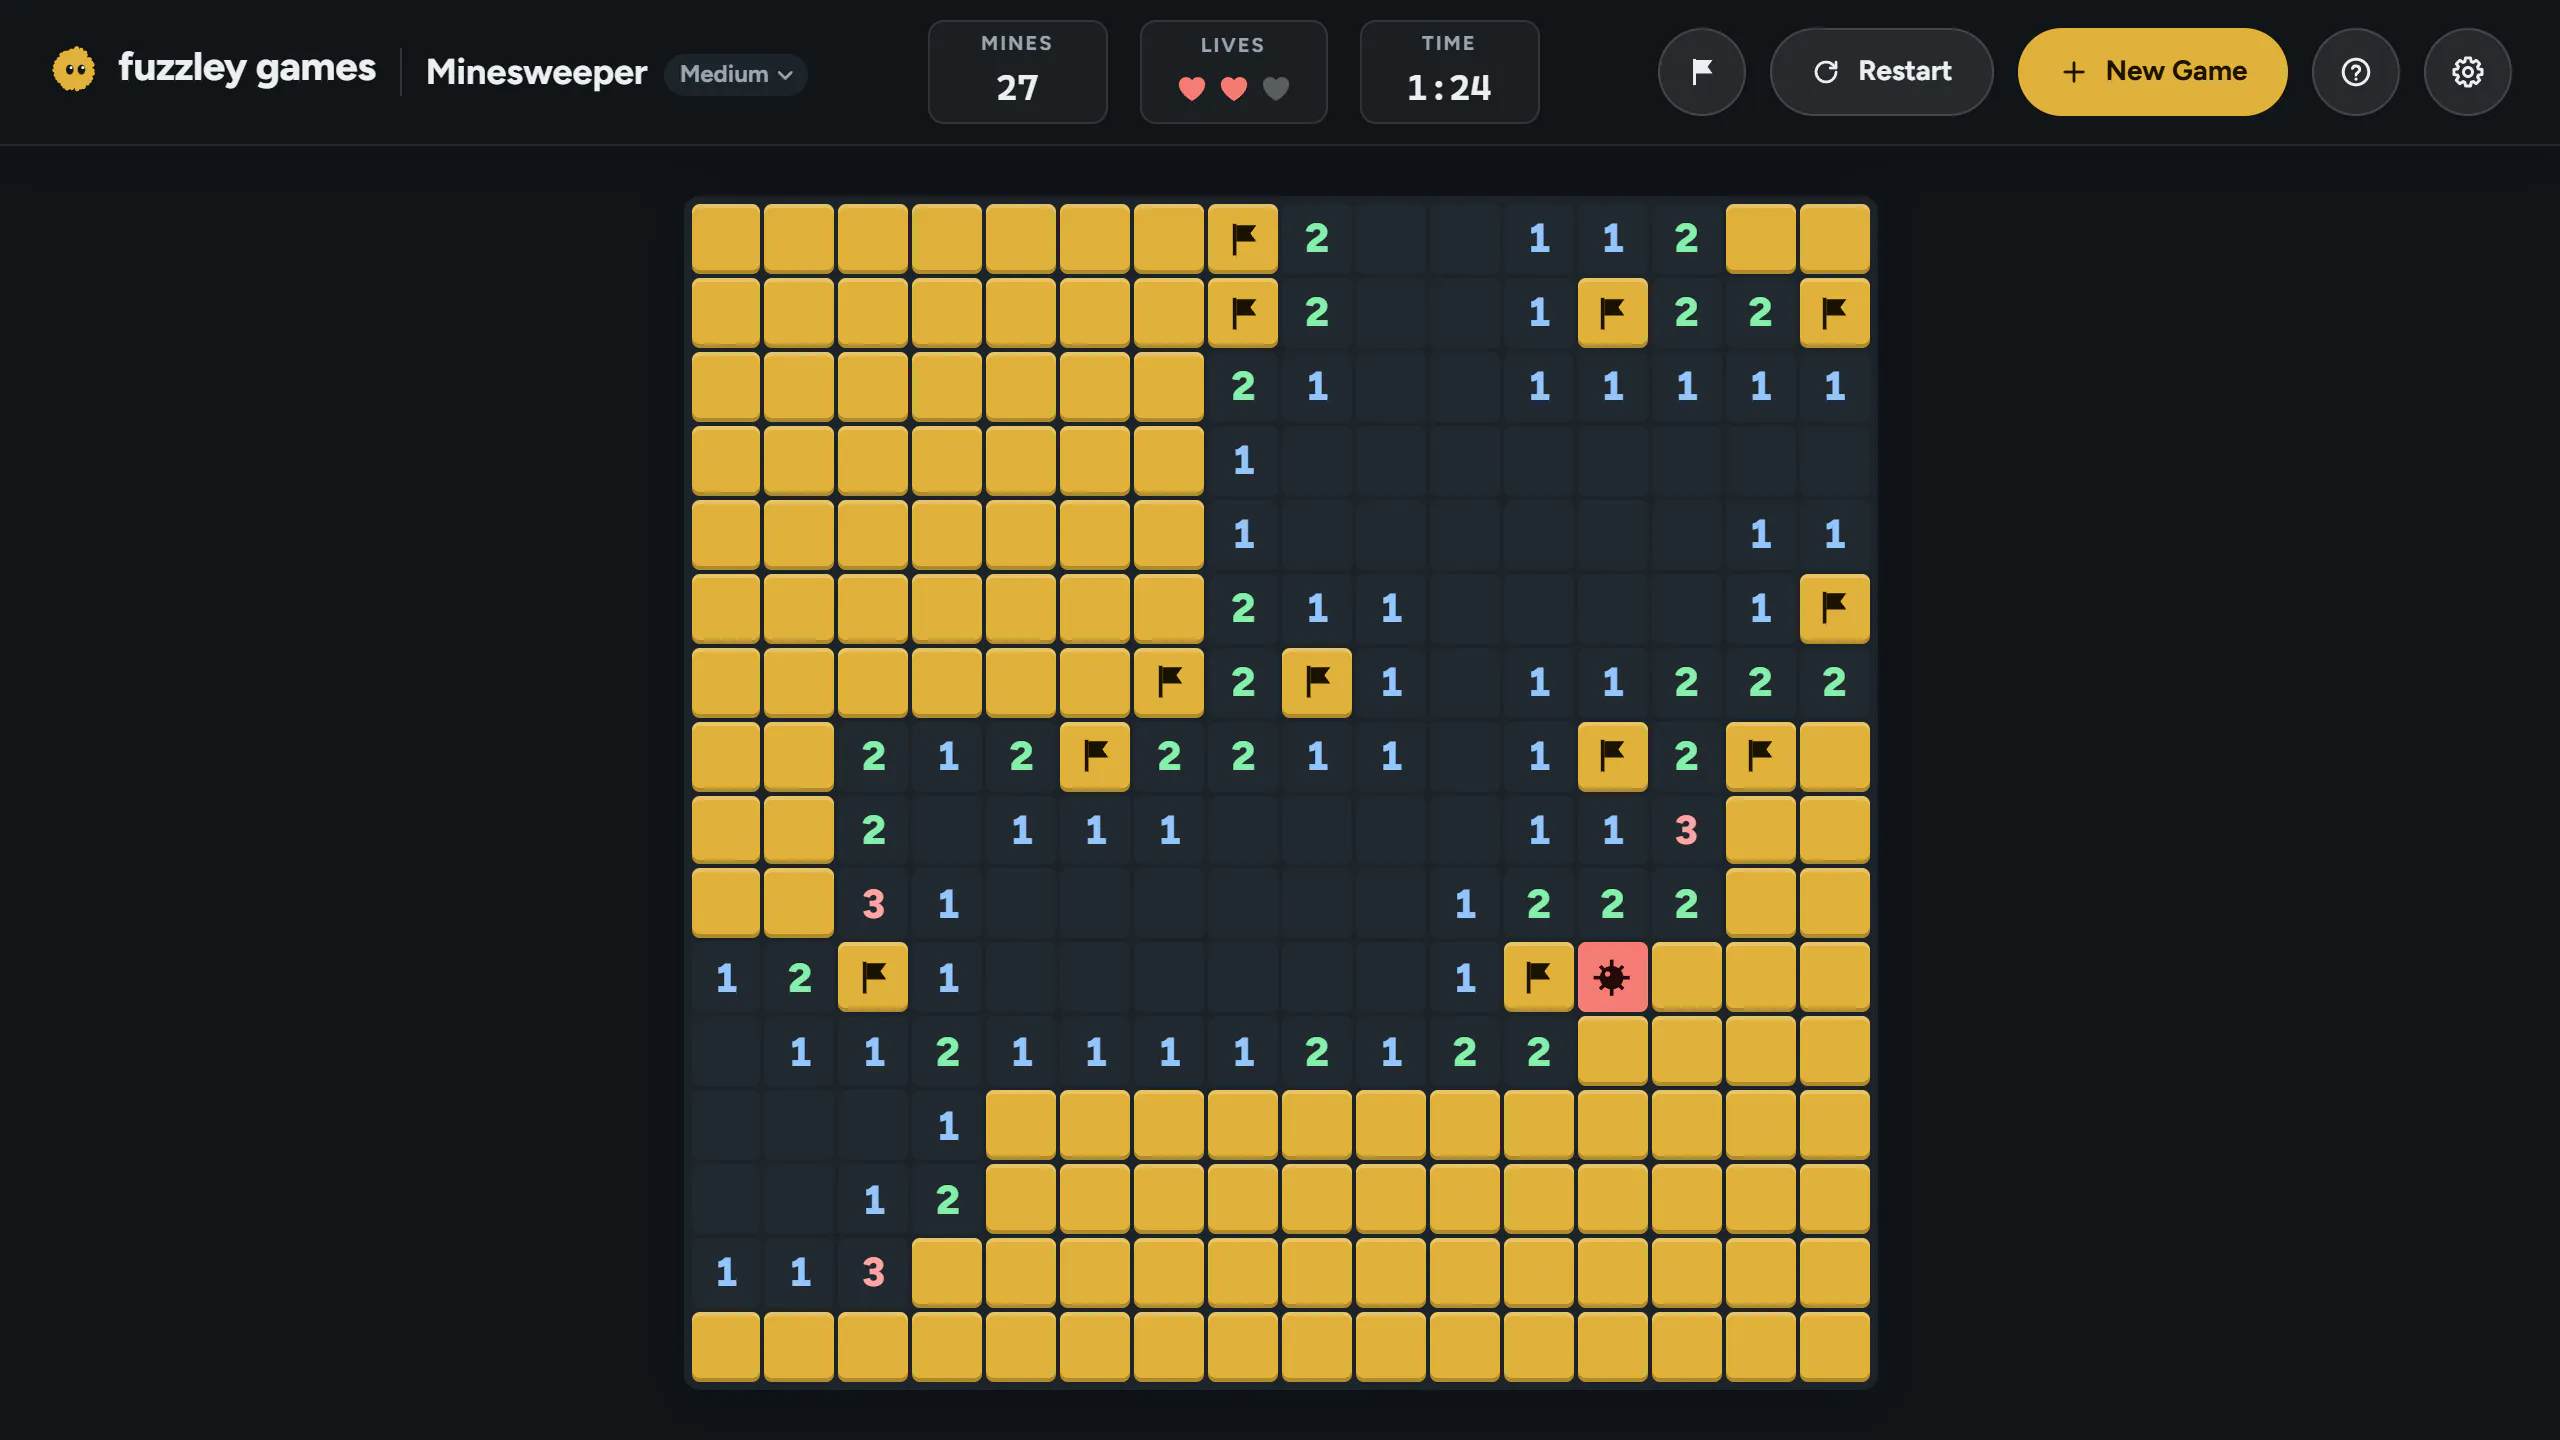
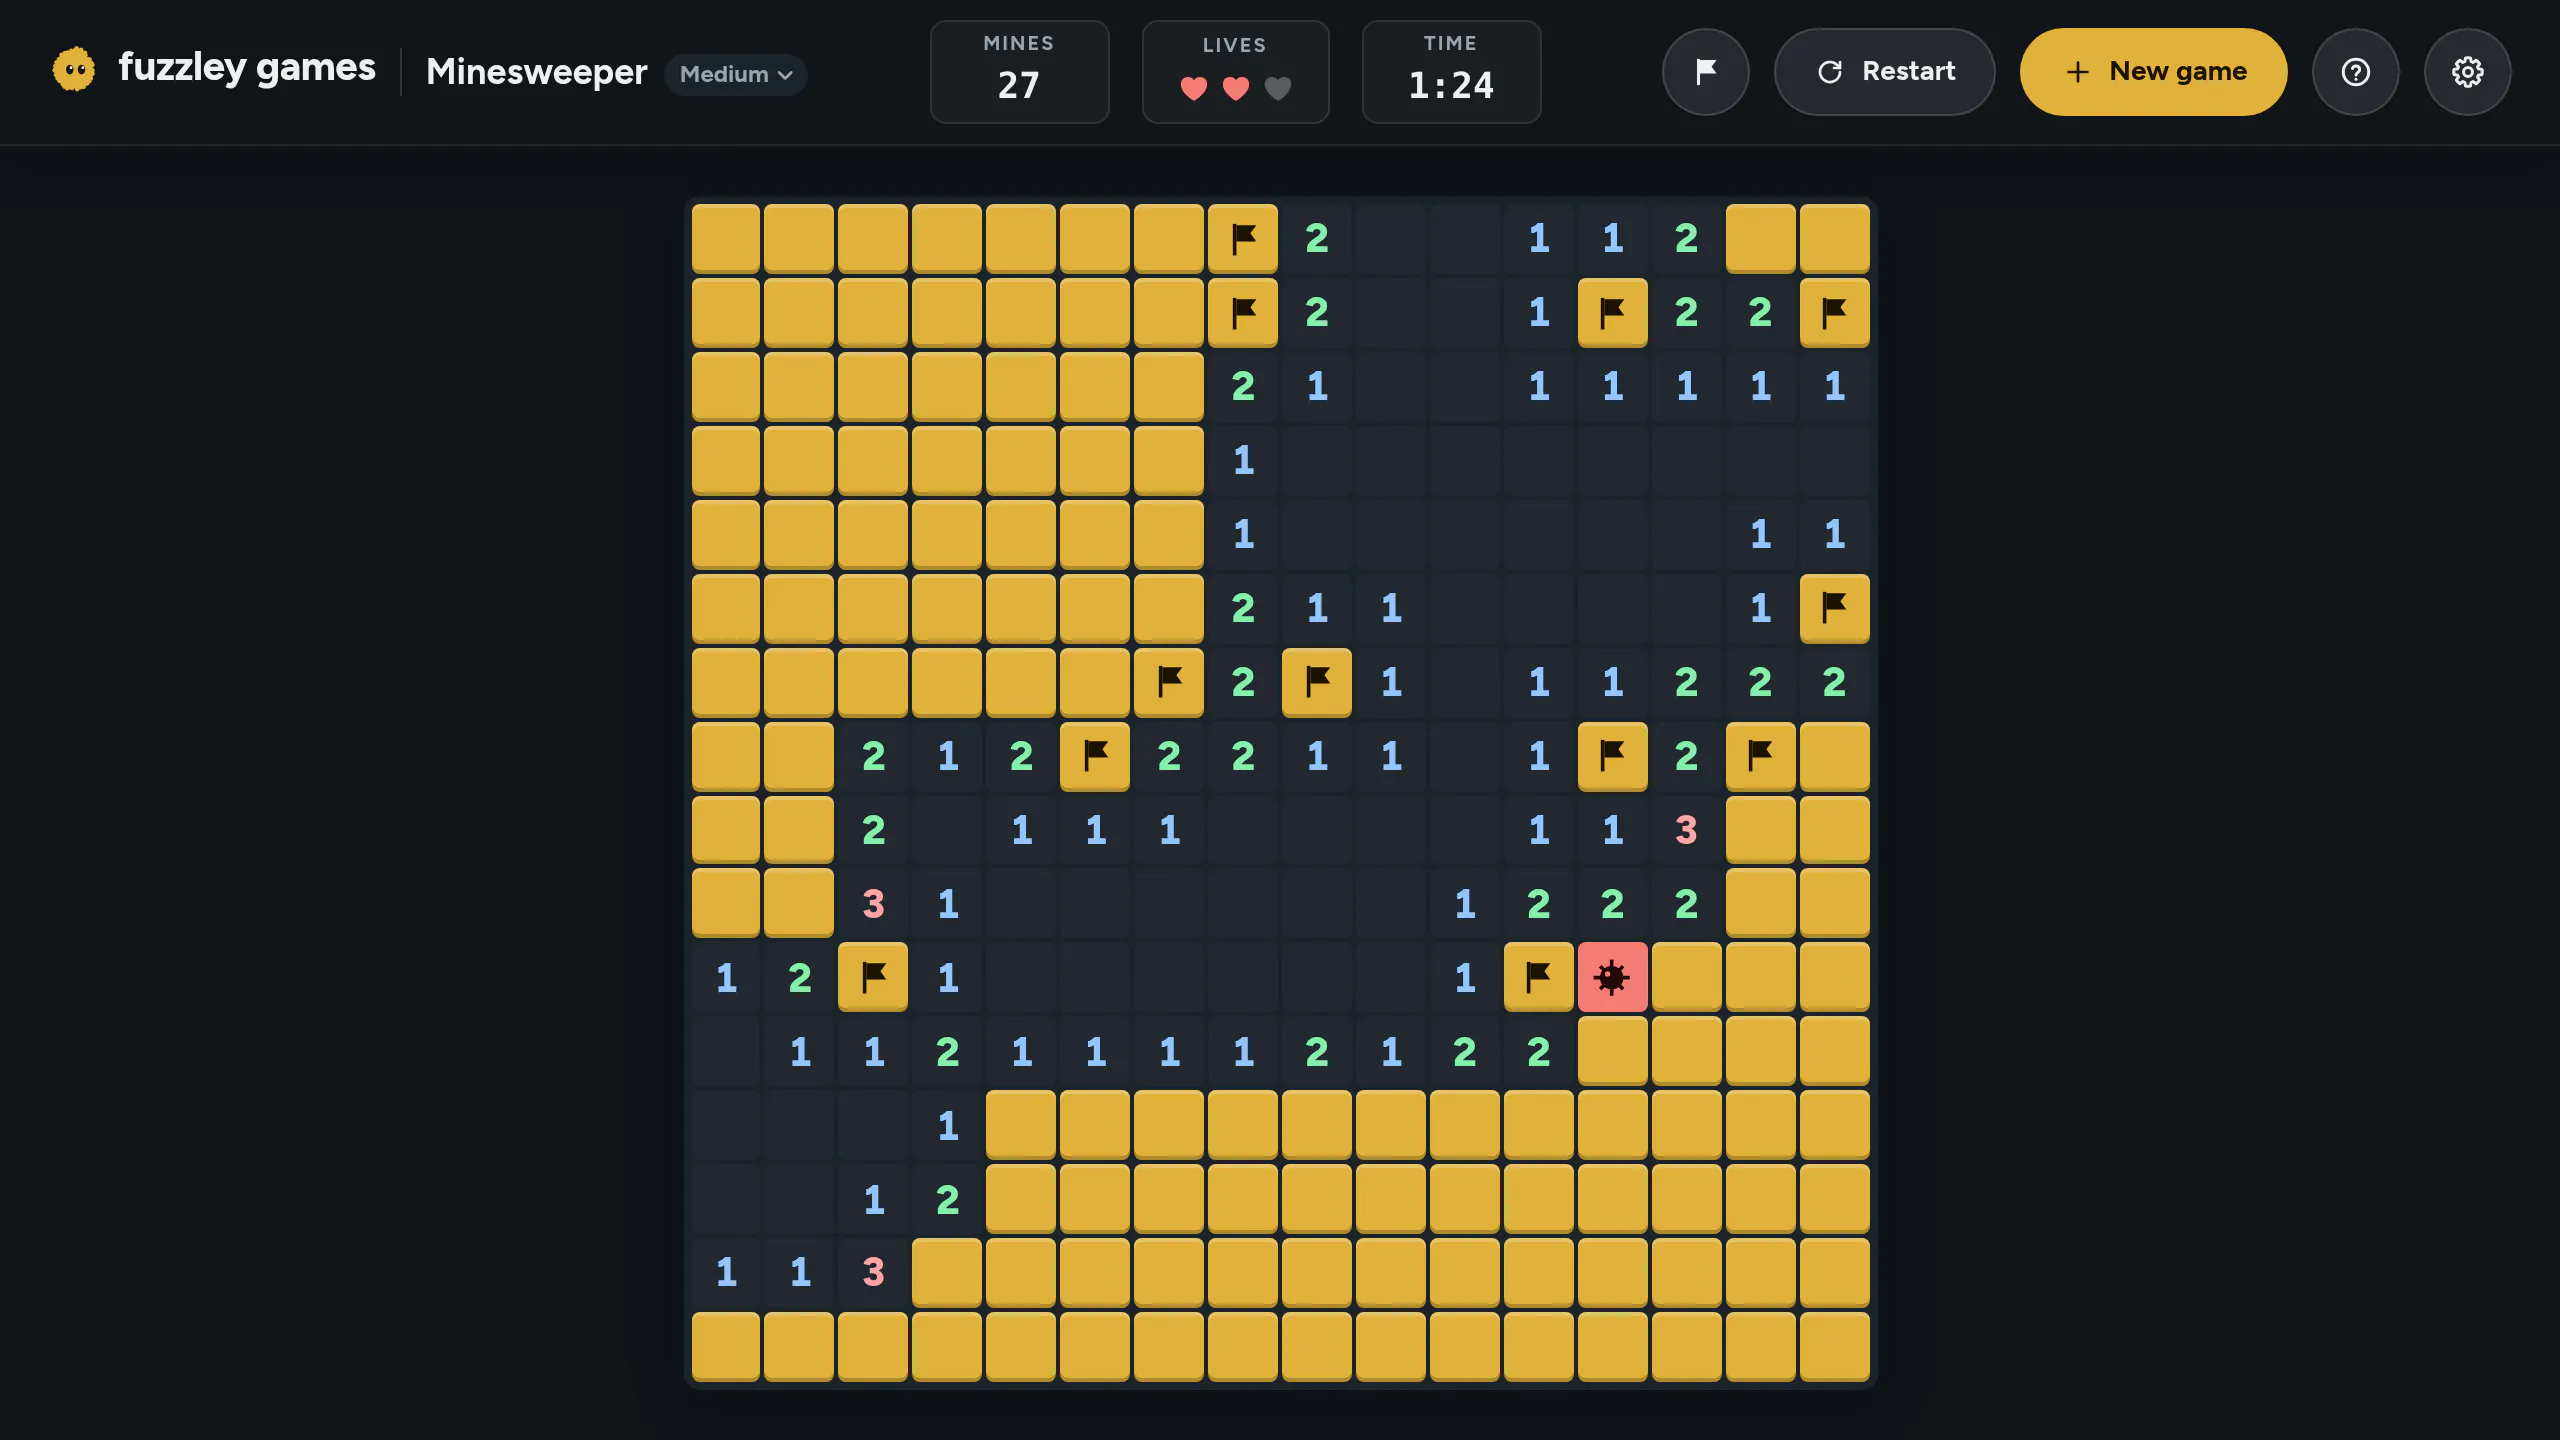
docs(minesweeper, sudoku, snake, brick-breaker): the site's screenshots of four games taken again, as @fz/dev/screenshots now takes them
Step 5.8 moved the games' capture scripts onto @fz/dev/screenshots, so each
was run again against yarn dev:all on the integration branch to see it shoot
the same. Minesweeper's, Sudoku's, Snake's and Brick Breaker's boards come
out in the same place, size, crop and palette as before. What differs is
what the games changed before this work began and after the old images were
taken: New game in sentence case, and Brick Breaker's lives and ball as
fuzzballs. Snake's link preview now calls its snake gold, as the casino
palette has drawn it since its screenshots moved to it.

Asteroid Breaker's and the Solitaire Collection's are kept as they were.
Asteroid Breaker's capture lands while its guarded ship blinks, so the ship
shows in some takes and not others, at the commit before this work as on
this branch. The Solitaire Collection's script takes the browser's colour
scheme, which is light here where its images are dark.

The review found three things, all taken:

1. The Solitaire Collection's images still show the clock as 00:00, which
   this branch made 0:00, and nothing said so: its script now pins its
   palette and its images are taken again, in a change of their own.
2. Asteroid Breaker's blinking ship wasn't written down: the work log
   records it, for a script that waits for the ship to show.
3. Snake's og:image:alt called the snake purple.

diff --git a/frontend/games/snake/index.html b/frontend/games/snake/index.html
@@ -32,7 +32,7 @@
     <meta property="og:image:height" content="1440" />
     <meta
       property="og:image:alt"
-      content="A game of Snake paused, a long purple snake bending across a checkered board toward a red apple."
+      content="A game of Snake paused, a long gold snake bending across a checkered board toward a red apple."
     />
     <meta name="twitter:card" content="summary_large_image" />
     <script type="application/ld+json">
